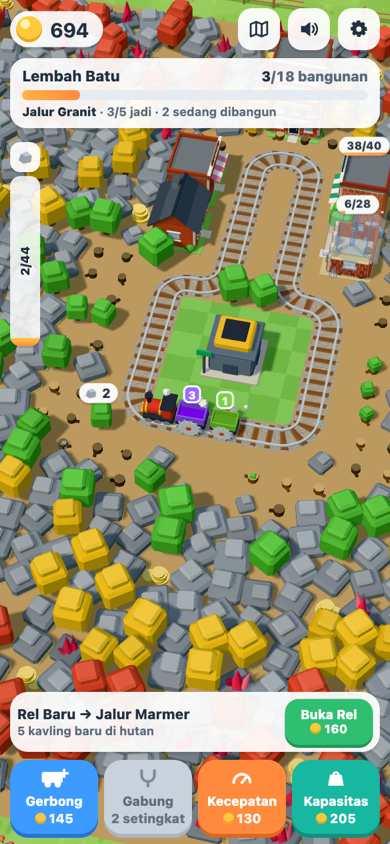
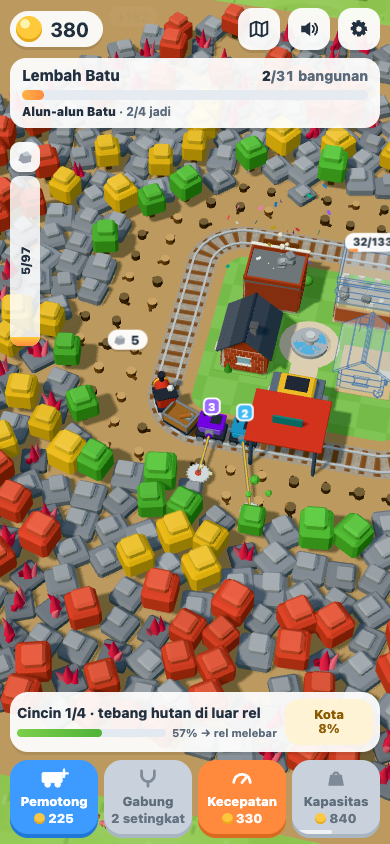
perbarui README dan screenshot untuk gameplay kota di dalam rel

diff --git a/README.md b/README.md
@@ -1,12 +1,12 @@
 # Loop Builders — Tebang & Bangun
 
-Game web 3D idle/clicker satu tangan (Vite + TypeScript + Three.js). Sebuah kereta dengan gerbong bergergaji berputar di rel yang membelah hutan voxel. Setiap blok di dekat rel ditebang dan hasilnya masuk ke muatan. Stasiun di tengah menjual muatan menjadi koin. Lahan yang sudah bersih berubah menjadi **kavling**, dan kereta memakai kayu atau batu yang ditebangnya untuk membangun rumah di sana. Rumah yang sudah jadi membayar **sewa** setiap kali kereta lewat.
+Game web 3D idle/clicker satu tangan (Vite + TypeScript + Three.js), mengikuti gaya *Train Miner: Idle Railway* (Flexus/Azur Games) dengan satu perbedaan besar: **hasil tebangan tidak dijual, tetapi dipakai membangun kota**.
 
-Gameplay menebangnya terinspirasi dari *Train Miner: Idle Railway*. Bedanya, di game ini lahan yang dibuka tidak dibiarkan kosong: di atasnya tumbuh sebuah desa.
+Sebuah kereta berputar di rel cincin yang mengelilingi pulau hutan voxel. Susunannya lokomotif, satu gerbong muatan, lalu gerbong pemotong. Tiap pemotong menjulurkan lengan ke kiri, ke arah hutan, dan gerinda horizontal di ujungnya menempel ke satu pohon atau batu sampai tumbang. Muatan dibongkar di stasiun dan langsung dipasang ke bangunan kota di tengah pulau. **Setiap bahan yang terpasang menjadi koin**, dan itulah satu-satunya sumber uang. Begitu hutan di luar rel bersih, rel melebar sendiri ke hutan berikutnya dan lahan bekasnya menjadi distrik kota baru. Level selesai saat kota jadi dan pulau bersih 100%.
 
 Semua visual dibuat prosedural dengan geometri Three.js, dan semua suara disintesis dengan Web Audio. Tidak ada aset eksternal, backend, login, iklan, atau pembayaran.
 
-![Menebang](docs/screenshots/01-menebang.png) ![Membangun](docs/screenshots/02-membangun.png) ![Hutan selesai](docs/screenshots/03-hutan-selesai.png) ![Lembah Batu](docs/screenshots/04-lembah-batu.png)
+![Menebang](docs/screenshots/01-menebang.png) ![Membangun](docs/screenshots/02-membangun.png) ![Kota selesai](docs/screenshots/03-kota-selesai.png) ![Lembah Batu](docs/screenshots/04-lembah-batu.png)
 
 ## Menjalankan
 
@@ -30,100 +30,89 @@ Butuh Node 18+ dan browser dengan WebGL. Tambahkan `?frame=390x844` pada URL unt
 | Ngebut (boost) | Ketuk area dunia untuk dorongan singkat, tahan untuk mempertahankan (±7 dtk, lalu isi ulang) | Tahan `Spasi` |
 | Geser kamera | Seret jari/mouse di area dunia (kamera kembali mengikuti kereta setelah ±3,5 dtk) | — |
 | Zoom | Cubit dua jari / scroll mouse | — |
-| Lihat seluruh peta | Tombol peta di kanan atas | `O` |
-| Tambah gerbong | **Gerbong** | `A` |
-| Gabung 2 gerbong setingkat | **Gabung** | `M` |
+| Lihat seluruh pulau | Tombol peta di kanan atas | `O` |
+| Tambah pemotong Lv1 | **Pemotong** | `A` |
+| Gabung 2 pemotong setingkat | **Gabung** | `M` |
 | Kereta lebih cepat | **Kecepatan** | `S` |
-| Muatan lebih besar | **Kapasitas** | `C` |
-| Buka rel baru | **Buka Rel** | `E` |
+| Gerbong muatan lebih besar | **Kapasitas** | `C` |
 | Level berikutnya | Tombol di panel selesai | `Enter` |
 
 Ketukan pada tombol HUD tidak memicu boost. Seretan lebih dari 12 px otomatis berubah dari boost menjadi geser kamera.
 
 ## Loop permainan
 
-1. **Menebang.** Tiap gerbong punya dua gergaji yang menebang blok dalam jangkauannya (makin dekat, makin cepat). Pohon hijau, pohon emas, pohon merah, dan batu menghasilkan kayu atau batu. Kristal menghasilkan permata, dan tumpukan koin langsung memberi uang. Saat muatan penuh, gergaji berhenti dan label di depan lokomotif berubah menjadi **PENUH**.
-2. **Menjual.** Setiap kali lewat stasiun, muatan dijual. Stasiun menyisakan bahan bangunan yang masih dibutuhkan kavling yang sudah bersih, jadi kereta tidak pernah berangkat tanpa bahan untuk membangun.
-3. **Membuka lahan.** Kavling di sepanjang rel awalnya tertutup hutan dan menampilkan persentase pembersihannya. Begitu semua bloknya ditebang, kavling siap dibangun.
-4. **Membangun.** Kereta yang melintasi kavling siap langsung menurunkan bahan (isi-dulu), dan sisanya dibawa ke kavling berikutnya. Modul bangunan berubah dari ghost menjadi solid (fondasi → dinding → bukaan → atap → detail). Bangunan yang sudah jadi membayar sewa setiap kali kereta lewat.
-5. **Upgrade.** **Gerbong** menambah gerbong Lv1. **Gabung** menyatukan dua gerbong setingkat menjadi satu gerbong yang gergajinya lebih tajam dan lebih lebar. **Kecepatan** dan **Kapasitas** juga bisa dinaikkan.
-6. **Rel baru** (3× per level) menumbuhkan cabang rel ke hutan berikutnya, lengkap dengan animasi, dan membuka 3–5 kavling baru. Progres, muatan, dan gerbong tidak berubah. Hutan makin jauh makin keras: zona hijau → emas → merah dengan batu dan kristal.
-7. **Hutan tumbuh kembali.** Tunggul pelan-pelan menjadi pohon lagi (kecuali di lahan kavling), jadi pasokan bahan tidak pernah habis.
-8. Level selesai saat semua bangunan berdiri. Muncul confetti, kamera menyorot seluruh peta, sisa muatan dijual, bonus diberikan, lalu tombol **Level Berikutnya** muncul.
+1. **Menebang.** Tiap pemotong memilih blok hidup terdekat di sisi kiri rel (sisi hutan) dalam jangkauan lengannya, lalu gerinda menempel dan memotong sampai blok tumbang. Satu pemotong mengerjakan satu blok sekaligus. Pohon hijau, emas, dan merah menghasilkan kayu, batu menghasilkan batu, dan kristal menghasilkan permata. Hasilnya terbang ke gerbong muatan di belakang lokomotif.
+2. **Muatan penuh.** Saat gerbong muatan penuh, semua lengan terlipat dan label di atas kereta berubah menjadi **PENUH**. Blok yang sudah tumbang tetapi tidak muat ditahan di ambang tumbang sampai muatan dibongkar, sehingga tidak ada bahan yang hilang.
+3. **Membangun.** Setiap kali lewat stasiun, seluruh muatan dibongkar ke gudang dan langsung dipasang ke bangunan kota yang terbuka (isi-dulu, berurutan). Nilai bahan: kayu 1, batu 2, permata 5 poin. Setiap poin yang terpasang memberi 1 koin, dan bangunan yang selesai memberi bonus. Modul bangunan berubah dari ghost menjadi solid (fondasi → dinding → bukaan → atap → detail).
+4. **Upgrade.** **Pemotong** menambah pemotong Lv1 di ujung kereta. **Gabung** menyatukan dua pemotong setingkat menjadi satu pemotong dengan lengan lebih panjang dan gerinda lebih besar dan cepat. **Kecepatan** mempercepat kereta, dan **Kapasitas** memperbesar gerbong muatan.
+5. **Rel melebar sendiri.** Begitu pita hutan di luar rel bersih 100%, rel bergeser keluar menjadi cincin yang lebih besar (dengan animasi), stasiun ikut pindah, dan lahan bekasnya menjadi distrik kota berikutnya. Bahan yang menunggu di gudang langsung dipasang ke distrik baru. Tidak ada tombol maupun biaya, sehingga permainan tidak mungkin macet.
+6. **Hutan tidak tumbuh lagi.** Total bahan di hutan sama persis dengan total biaya kota, jadi pulau bersih dan kota jadi terjadi bersamaan.
+7. Level selesai saat semua bangunan berdiri dan pulau bersih. Muncul confetti, kamera menyorot seluruh pulau, bonus diberikan, lalu tombol **Level Berikutnya** muncul.
 
 ## Konten
 
-| Level | Tema | Bahan bangunan | Cabang rel (utara → selatan → timur → barat) | Bangunan |
+| Level | Tema | Tampilan bangunan | Distrik (cincin 1 → 4) | Bangunan |
 | --- | --- | --- | --- | --- |
-| 1 · Hutan Cemara | Hutan | Kayu | Cemara, Pinus, Mahoni, Jati | Rumah kayu, rumah papan, warung, rumah panggung, lumbung, rumah loteng, menara air |
-| 2 · Lembah Batu | Padang | Batu (bangunan bata) | Granit, Marmer, Kapur, Andesit | Rumah bata, toko roti, ruko, rumah bata tingkat, apartemen, menara jam |
+| 1 · Hutan Cemara | Hutan | Kayu | Alun-alun, Kampung Cemara, Kampung Pinus, Kampung Jati | Rumah kayu, rumah papan, warung, rumah panggung, lumbung, rumah loteng, menara air |
+| 2 · Lembah Batu | Padang | Bata | Alun-alun Batu, Blok Granit, Blok Marmer, Blok Andesit | Rumah bata, toko roti, ruko, rumah bata tingkat, apartemen, menara jam |
 
-Masing-masing level berisi 18 bangunan. Setelah level 2, permainan berputar kembali ke level 1 dengan target, harga, dan sewa yang lebih tinggi. Upgrade kereta direset di setiap level baru, sedangkan uang tetap dibawa.
+Masing-masing level berisi 4 cincin rel dan 31 bangunan (4 / 6 / 9 / 12 per distrik). Hutan makin jauh makin keras: pohon hijau di dekat pusat, lalu pohon emas, lalu pohon merah dengan batu dan kristal. Setelah level 2, permainan berputar kembali ke level 1 dengan koin dan harga upgrade yang lebih tinggi. Upgrade kereta direset di setiap level baru, sedangkan uang tetap dibawa.
 
 ## Angka awal (Level 1)
 
 | Parameter | Nilai |
 | --- | --- |
-| Kereta awal | lokomotif + 1 gerbong Lv1; kecepatan 3,4 u/dtk (+0,1 per level); muatan 20 (×1,3 per level) |
-| Gergaji | 2,6 dmg/dtk per gerbong Lv1, ×1,8 per tingkat; jangkauan 2,65 (+0,22 per tingkat) |
-| Blok | pohon 2 HP → 2 kayu · pohon emas 4 → 3 · pohon merah 7 → 5 · batu 6 → 3 batu · kristal 12 → 1 permata · koin +20 |
-| Harga jual | kayu 1, batu 2, permata 10 |
-| Gerbong / Gabung / Kecepatan / Kapasitas | 10 / 15 / 20 / 20, lalu ×1,55 / ×1,45 / ×1,6 / ×1,6 |
-| Rel baru | 60 / 160 / 320 |
-| Bangunan | 16–70 kayu; sewa 1–7 per kereta lewat |
+| Kereta awal | lokomotif + gerbong muatan + 1 pemotong Lv1; kecepatan 3,4 u/dtk (+10% per level); muatan 20 (×1,3 per level) |
+| Pemotong | 3,5 dmg/dtk pada satu blok, ×1,8 per tingkat; lengan 3,8 (+0,3 per tingkat) |
+| Blok | pohon 2 HP → 2 kayu · pohon emas 4 → 3 · pohon merah 7 → 5 · batu 6 → 3 batu · kristal 12 → 1 permata |
+| Koin | 1 per poin bahan terpasang; bonus bangunan selesai 30% biayanya; bonus level 200 |
+| Pemotong / Gabung / Kecepatan / Kapasitas | 10 / 15 / 20 / 20, lalu ×1,55 / ×1,45 / ×1,6 / ×1,6 (Level 2 ×2,5) |
+| Rel | cincin pertama setengah lebar 4,25; tiap cincin berikutnya +2,5 |
+| Hutan | 665 blok, 2.759 poin bahan; biaya bangunan 66–167 poin |
 
-Hasil `npm run balance` (bot tanpa boost yang menabung untuk rel baru setelah cabangnya selesai): tebangan pertama di detik ke-1, rumah pertama jadi ±20 dtk, cabang pertama selesai ±70 dtk. Level 1 selesai ±6,2 menit dan Level 2 ±8,4 menit. Pemasukan terbagi antara penjualan dan sewa.
+Hasil `npm run balance` (bot tanpa boost yang membeli upgrade termurah yang masuk akal): tebangan pertama di detik ke-1, bongkar muatan pertama ±9 dtk, rumah pertama jadi ±37 dtk. Rel melebar pada ±93 dtk, ±186 dtk, dan ±309 dtk. Level 1 selesai ±6,8 menit dan Level 2 ±7,5 menit.
 
-Semua angka global ada di `src/config/balance.ts`. Level, cabang, kavling, zona hutan, dan harga ada di `src/config/levels.ts`. Tipe bangunan ada di `src/config/buildings/`.
+Semua angka global ada di `src/config/balance.ts`. Level, cincin, distrik, bobot bangunan, dan jenis blok per pita ada di `src/config/levels.ts`. Tipe bangunan ada di `src/config/buildings/`.
 
 ## Arsitektur
 
 ```
 src/
-  config/        balance.ts, levels.ts (level/cabang/kavling/zona hutan), buildings/ (generator bangunan)
+  config/        balance.ts, levels.ts (cincin, distrik & bobot bangunan, blok per pita), buildings/ (generator bangunan)
   game/          logika murni, tanpa Three.js/DOM, dapat diuji di Node
-    layout.ts      sudut loop per tahap, posisi kavling & titik stasiun
+    layout.ts      jarak bertanda ke rel pertama → pita hutan, jalur rel tiap tahap, posisi kavling & stasiun
     track.ts       TrackPath (poligon bersudut bulat), computeCrossings, StageMapping
-    tracks.ts      cache lintasan per level/tahap + pemetaan saat rel baru
-    worldgen.ts    grid hutan 1×1 (seed tetap): jenis blok per zona, sel rel & sel kavling
-    sim.ts         boost, gerak kereta, gergaji, tumbuh kembali, jual, kirim, sewa, bonus
-    actions.ts     gerbong, gabung, kecepatan, kapasitas, rel baru, level berikutnya
-    economy.ts     rumus + akses konteks level
-    save.ts        save/load (skema v3) + validasi + cadangan save rusak
-  render/        world.ts, forestView (InstancedMesh per jenis blok), trainView (lokomotif, gerbong, gergaji),
-                 trackView (rel + morph), plotView, buildingView (ghost/solid), environment, effects,
-                 labels (label DOM di dunia 3D), cameraRig (ikuti kereta/geser/zoom/overview)
-  audio/sfx.ts   synthesizer Web Audio (gergaji, tebang, jual, sewa berantai; compressor & batas voice)
+    tracks.ts      cache lintasan per level/tahap + pemetaan saat rel melebar
+    worldgen.ts    grid hutan 1×1 (seed tetap): jenis blok per pita, sel rel, sel per pita
+    sim.ts         boost, gerak kereta, pemotong (satu target), bongkar & pasang, rel melebar, level selesai
+    actions.ts     tambah pemotong, gabung, kecepatan, kapasitas, level berikutnya
+    economy.ts     rumus, kalibrasi biaya bangunan dari hasil hutan, progres
+    save.ts        save/load (skema v4) + validasi + cadangan save rusak
+  render/        world.ts, forestView (InstancedMesh per jenis blok), trainView (lokomotif, gerbong muatan,
+                 pemotong dengan lengan & gerinda), cityView (tanah kota, jalan, air mancur), trackView (rel + morph),
+                 plotView, buildingView (ghost/solid), environment, effects, labels, cameraRig
+  audio/sfx.ts   synthesizer Web Audio (dengung gerinda, tebang, bongkar, koin; compressor & batas voice)
   ui/            hud.ts, tutorial.ts, format.ts
   app.ts         loop, event → render/audio/HUD, input (boost, geser, cubit), autosave
 ```
 
-Hutan adalah grid sel 1×1. Setiap sel menyimpan HP (>0 hidup, 0 tunggul, −1 kosong/rel) dan progres tumbuh kembali. Rel secara teknis tetap **satu loop tertutup**: mengelilingi stasiun, ditambah setiap cabang yang keluar lalu kembali. Sebuah titik (stasiun atau kavling) dianggap dilewati jika berada di interval setengah-terbuka `(prev, prev+move]` sepanjang arah rel, sehingga boost tidak bisa melompatinya dan tidak ada pemicu ganda. Saat rel baru dibuka, sel-sel di jalurnya dibersihkan, lalu `StageMapping` memetakan posisi kereta ke loop baru dengan menjaga urutan relatif terhadap stasiun dan kavling lama.
+Semua cincin rel adalah offset dari rel pertama, sehingga satu fungsi jarak bertanda menentukan pita hutan, jalur rel, dan cincin kavling. Batas pita digeser sejauh setengah lebar koridor rel, jadi rel berikutnya selalu diletakkan di lahan yang sudah bersih. Kereta adalah satu jarak skalar di loop. Stasiun (jarak 0) dianggap dilewati jika berada di interval setengah-terbuka `(prev, prev+move]`, sehingga boost tidak bisa melompatinya dan tidak ada pemicu ganda. Saat rel melebar, `StageMapping` memetakan posisi kereta secara proporsional dengan stasiun sebagai titik bersama.
 
 ## Menambah level / bangunan
 
 1. **Tipe bangunan baru**: tambahkan entri di `BUILDINGS` pada `src/config/buildings/index.ts`. Pakai generator parametrik `house()` (dinding log/papan/bata, 1–4 lantai, atap pelana/datar, panggung, kanopi, balkon, papan nama), atau tulis generator sendiri seperti `waterTower()`.
-2. **Level baru**: salin satu objek di `LEVELS` (`src/config/levels.ts`). Isi `buildResource`, `zones` (jenis blok per radius dari stasiun), `seed`, dan tiap cabang dengan `side` (N/E/S/W), `length`, `unlockStage`, serta kavling `P(lajur, jarak, tipe, varian, target, sewa)`.
-3. Jalankan `npm test`. `tests/layout.test.ts` otomatis memeriksa bahwa kavling tidak menimpa rel maupun kavling lain, titik jangkar tepat di rel dan urut sesuai arah kereta, hutan menutupi kavling sementara rel awal dan lapangan stasiun bersih, loop makin panjang tiap rel baru, dan kiriman kecil pertama langsung menumbuhkan bangunan.
+2. **Level baru**: salin satu objek di `LEVELS` (`src/config/levels.ts`). Isi `ringStart`, `ringStep`, `cornerRadius`, `districts` (satu per cincin; kavling `L(tipe, varian, bobot)`), `bands` (bobot jenis blok per cincin), dan `seed`. Biaya bangunan tidak perlu ditulis karena dihitung otomatis dari hasil pita hutan distriknya.
+3. Jalankan `npm test`. `tests/layout.test.ts` otomatis memeriksa bahwa setiap blok terjangkau lengan pemotong Lv1 dari sisi kiri rel pitanya, rel berikutnya hanya melewati pita sebelumnya, kavling tidak saling menimpa dan tidak menimpa rel, dan biaya tiap distrik sama dengan hasil pita hutannya.
 
 ## Pengujian
 
-`npm test` menjalankan 39 tes:
+`npm test` menjalankan 40 tes:
 
 - **Crossing**: wrap di ujung loop, boost/langkah besar, dan jumlah pemicu yang sama untuk berbagai ukuran langkah.
-- **Tata letak**: semua tahap di kedua level.
-- **Gergaji**: hanya menebang blok dalam jangkauan, muatan tidak pernah melebihi kapasitas, lahan kavling akhirnya bersih, dan tunggul tumbuh kembali.
-- **Stasiun & kavling**: menjual muatan tapi menyisakan bahan yang dibutuhkan, isi-dulu, sewa hanya dari bangunan yang sudah jadi, bonus cabang dibayar sekali, dan level selesai menjual sisa muatan.
-- **Aksi**: gerbong, gabung, kecepatan, kapasitas, dan rel baru yang tidak mereset progres, muatan, atau gerbong serta menjaga posisi kereta.
-- **Save/load**: round-trip (hutan, kereta, rel, kavling), save rusak atau versi lama, level selesai tetap selesai, dan clamp nilai.
-- **Pacing**: bot memainkan kedua level sampai selesai tanpa softlock.
-
-Selain itu, game sudah diuji di Chrome headless dengan viewport ponsel 390×844 (sentuh), desktop 1440×900, dan landscape 844×390. Skenario yang diuji: menebang, gerbong, gabung, upgrade, rel baru, kamera mengikuti kereta, level selesai, reload tetap dalam keadaan selesai, lalu pindah ke Lembah Batu. Tidak ada error console.
-
-## Keterbatasan
-
-- Belum diuji di ponsel fisik; performa di ponsel kelas bawah belum diukur.
-- Rel hanya bisa bercabang dari keempat sisi stasiun (maksimal 4 cabang per level).
-- Label kavling bisa saling tumpuk saat kamera di-zoom jauh.
-- Audio disintesis dan kualitasnya subjektif. Tidak ada musik latar.
-- Tidak ada progres offline: simulasi dijeda saat tab disembunyikan.
+- **Tata letak**: jangkauan pemotong, rel di lahan bersih, kavling (uji sumbu pemisah), dan kalibrasi biaya untuk kedua level.
+- **Pemotong**: hanya memotong di kiri dalam jangkauan, satu blok per pemotong, muatan tidak melebihi kapasitas, susunan kereta, dan hutan tidak tumbuh kembali.
+- **Stasiun & kota**: tidak ada yang dijual, isi-dulu dengan bonus, gudang menunggu distrik baru, dan uang hanya dari membangun.
+- **Rel melebar**: otomatis saat pita bersih, posisi kereta dan muatan terjaga, serta berhenti di cincin terakhir.
+- **Kekekalan bahan**: hutan + muatan + gudang + terpasang selalu sama dengan total hasil hutan; level selesai hanya saat kota jadi dan pulau bersih.
+- **Aksi & save/load**: upgrade, level berikutnya dan putaran ulang, round-trip, save rusak atau versi lama, dan clamp nilai.
+- **Pacing**: bot memainkan kedua level sampai selesai tanpa softlock, dengan rel melebar 3× per level.
